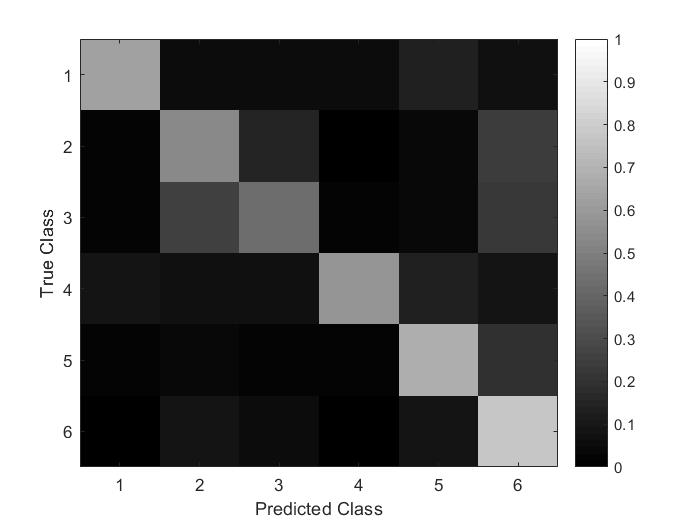
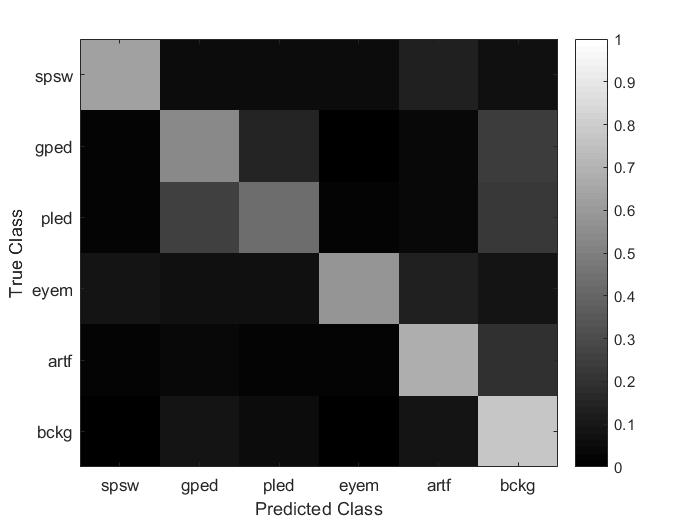
Add files via upload
figures updated to add axis tick labels reflecting class names. coding edited to make those changes.

diff --git a/EDFanalyze.m b/EDFanalyze.m
@@ -262,6 +262,8 @@ colormap(gray)
 caxis([0 1])
 xlabel('Predicted Class')
 ylabel('True Class')
+xticklabels({'spsw', 'gped', 'pled', 'eyem', 'artf', 'bckg'});
+yticklabels({'spsw', 'gped', 'pled', 'eyem', 'artf', 'bckg'});
 
 acc = numCorrect / length(fullData);
 display('The classification accuracy is: ')
